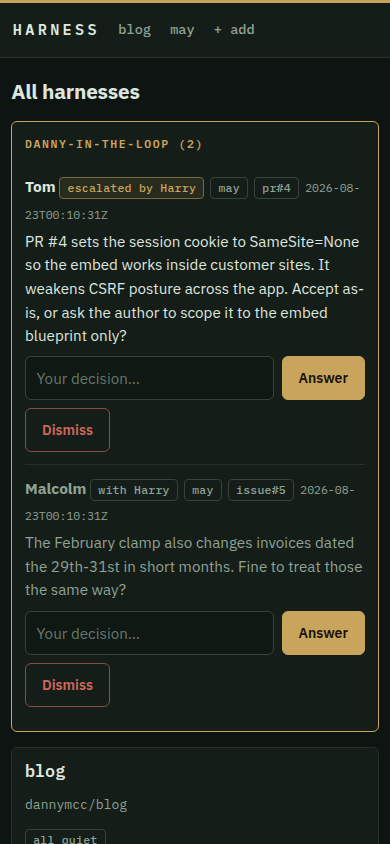
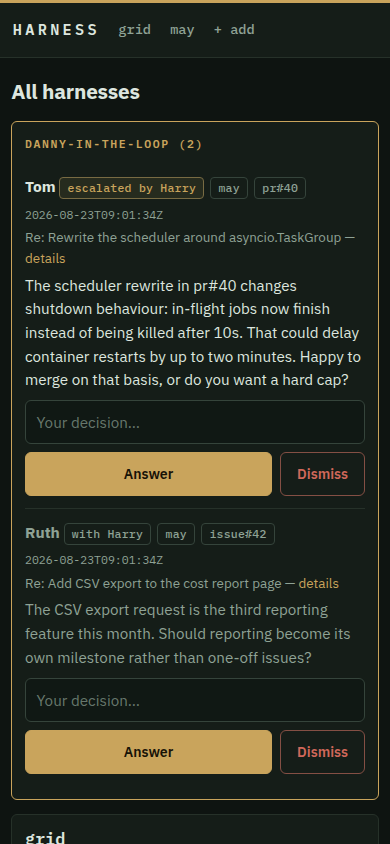
style: mobile QA pass — ledger-style runs, form stacking, scroll affordances, clamps, docket timestamps
Both design skills applied: fixed the float/BFC bug shrinking the roster
strip, edge-bleed scroll affordances for strip and kanban, stacked run
rows, line-clamps over mid-word slices, nowrap mono timestamps, de-emojied
banners, humanised status pills.

Claude-Session: https://claude.ai/code/session_01DxN58DcNjDyC8eDMGfPuZs

diff --git a/harness/web/static/style.css b/harness/web/static/style.css
@@ -16,6 +16,7 @@
   --err: #d0685a;
   --sans: "IBM Plex Sans", system-ui, -apple-system, "Segoe UI", sans-serif;
   --mono: "IBM Plex Mono", ui-monospace, SFMono-Regular, Menlo, Consolas, monospace;
+  --page-pad: .9rem;
 }
 @media (prefers-color-scheme: light) {
   :root {
@@ -59,7 +60,7 @@ nav {
 .who { margin-left: auto; color: var(--dim); font: 400 .78rem var(--mono); }
 
 /* --- type --------------------------------------------------------------- */
-main { max-width: 900px; margin: 0 auto; padding: 1rem .9rem 2rem; }
+main { max-width: 900px; margin: 0 auto; padding: 1rem var(--page-pad) 2rem; }
 h1 {
   font: 700 1.3rem/1.3 var(--sans); letter-spacing: -.01em;
   margin: .6rem 0 1rem;
@@ -75,7 +76,7 @@ h2 a { letter-spacing: .14em; }
 }
 .repo { color: var(--dim); font: 400 .82rem var(--mono); letter-spacing: 0; }
 .dim { opacity: .5; }
-.ts { color: var(--dim); font: 400 .72rem var(--mono); letter-spacing: 0; text-transform: none; }
+.ts { color: var(--dim); font: 400 .72rem var(--mono); letter-spacing: 0; text-transform: none; white-space: nowrap; }
 .hint { color: var(--dim); font-size: .85rem; }
 
 /* --- banners ------------------------------------------------------------ */
@@ -95,8 +96,9 @@ h2 a { letter-spacing: .14em; }
   gap: .9rem; margin-bottom: .9rem;
 }
 .card {
+  --card-pad: 1rem;
   background: var(--card); border: 1px solid var(--border);
-  border-radius: 6px; padding: .95rem 1rem; margin-bottom: .9rem;
+  border-radius: 6px; padding: .95rem var(--card-pad); margin-bottom: .9rem;
   display: block; color: var(--text);
 }
 .cards .card { margin-bottom: 0; }
@@ -106,6 +108,11 @@ a.card:hover { border-color: var(--accent); text-decoration: none; }
 .accent-border > h2:first-child { color: var(--accent); }
 .report-snippet { color: var(--dim); font-size: .85rem; margin: .5rem 0 0; }
 .report-snippet b { color: var(--text); }
+.clamp2, .clamp3 {
+  display: -webkit-box; -webkit-box-orient: vertical; overflow: hidden;
+}
+.clamp2 { -webkit-line-clamp: 2; }
+.clamp3 { -webkit-line-clamp: 3; }
 .cost { color: var(--dim); font: 400 .75rem var(--mono); margin: .5rem 0 0; }
 .stats { margin-top: .35rem; }
 
@@ -170,6 +177,33 @@ pre {
   overflow-x: auto; max-height: 60vh;
 }
 .diff { max-height: 70vh; }
+
+/* --- agent runs: stacked ledger rows ------------------------------------ */
+.runs { list-style: none; padding: 0; margin: 0; }
+.runs li { padding: .6rem 0; border-top: 1px solid var(--border); }
+.runs li:first-child { border-top: 0; }
+.run-head {
+  display: flex; align-items: center; gap: .45rem; flex-wrap: wrap;
+  min-width: 0;
+}
+.run-head > a { flex: 1 1 auto; min-width: 0; }
+.run-mark { font: 600 .85rem var(--mono); }
+.run-mark.ok { color: var(--ok); }
+.run-mark.err { color: var(--err); }
+.run-summary { margin: .25rem 0 0; color: var(--dim); font-size: .85rem; }
+.run-when { margin: .25rem 0 0; color: var(--dim); font: 400 .72rem var(--mono); }
+.runs form { display: inline; }
+.runs button.danger {
+  min-height: 36px; min-width: auto; padding: .25rem .6rem;
+  font: 500 .75rem var(--mono);
+}
+
+/* run page: facts under the title, docket-style */
+.run-facts {
+  display: flex; align-items: center; flex-wrap: wrap; gap: .3rem .8rem;
+  margin: .3rem 0 1rem; color: var(--dim); font: 400 .78rem var(--mono);
+}
+.run-facts span:not(.pill) { white-space: nowrap; }
 
 /* --- events ------------------------------------------------------------- */
 .events { list-style: none; padding: 0; margin: 0; }
@@ -254,7 +288,12 @@ footer {
 .kanban {
   display: grid; grid-auto-flow: column;
   grid-auto-columns: minmax(230px, 1fr);
-  gap: .7rem; overflow-x: auto; padding-bottom: .6rem;
+  gap: .7rem; overflow-x: auto;
+  /* bleed to the card's edge so a cut-off column reads as "scroll me",
+     not as clipped content */
+  margin-inline: calc(var(--card-pad) * -1);
+  padding: 0 var(--card-pad) .6rem;
+  scroll-padding-inline: var(--card-pad);
   scroll-snap-type: x proximity;
   scrollbar-color: var(--border-strong) transparent;
 }
@@ -262,11 +301,12 @@ footer {
 .kanban-col h3 {
   font: 600 .68rem var(--mono); text-transform: uppercase;
   letter-spacing: .12em; color: var(--dim); margin: 0 0 .5rem;
-  display: flex; align-items: center; gap: .35rem;
+  display: flex; align-items: center; gap: .45rem;
   border-bottom: 1px solid var(--border); padding-bottom: .4rem;
+  white-space: nowrap;
 }
-.kanban-col h3 .pill { text-transform: none; letter-spacing: .02em; font-size: .68rem; padding: .05rem .35rem; }
-.kanban-col .count { margin-left: auto; color: var(--text); }
+.kanban-col h3 .pill { text-transform: none; letter-spacing: .02em; font-size: .68rem; padding: .05rem .35rem; margin: 0; }
+.kanban-col .count { color: var(--text); }
 .kcard {
   display: flex; flex-direction: column; gap: .15rem;
   background: var(--inset); border: 1px solid var(--border);
@@ -287,23 +327,30 @@ footer {
 .question > p:first-child { margin: 0 0 .1rem; }
 .q-text { margin: .3rem 0 .55rem; font-size: .95rem; }
 .answer-form { display: flex; gap: .5rem; flex-wrap: wrap; }
-.answer-form input { flex: 1 1 220px; }
+.answer-form input { flex: 1 1 220px; min-width: 0; }
 
 /* --- small screens ------------------------------------------------------ */
 @media (max-width: 600px) {
-  main { padding: .7rem .7rem 1.5rem; }
+  :root { --page-pad: .7rem; }
+  main { padding: .7rem var(--page-pad) 1.5rem; }
   .cards { grid-template-columns: 1fr; }
   nav { gap: .1rem .4rem; padding: .45rem .6rem; }
   .who { display: none; }
   .kanban { grid-auto-columns: minmax(220px, 78vw); }
-  .card { padding: .85rem .8rem; }
+  .card { --card-pad: .8rem; padding: .85rem var(--card-pad); }
+  /* the input takes the whole first line; the buttons share the second */
+  .answer-form input { flex-basis: 100%; }
+  .answer-form button.primary { flex: 1 1 auto; }
 }
 
 
 /* --- settings link + tell form ------------------------------------------ */
+.page-head {
+  display: flex; align-items: center; flex-wrap: wrap; gap: .25rem .6rem;
+}
 .settings-link {
-  float: right; display: inline-flex; align-items: center;
-  min-height: 44px; padding: 0 .75rem; margin-left: .5rem;
+  display: inline-flex; align-items: center;
+  min-height: 44px; padding: 0 .75rem; margin-left: auto;
   font: 500 .72rem var(--mono); letter-spacing: .1em; text-transform: uppercase;
   color: var(--dim); border: 1px solid var(--border-strong); border-radius: 4px;
 }
@@ -318,9 +365,12 @@ footer {
 .q-context { font-size: .84rem; color: var(--dim); margin: .15rem 0 0; }
 
 /* --- compact agent strip under the page title --- */
+/* bleeds to the viewport edge so a half-visible chip signals more to scroll */
 .roster-strip {
   flex-wrap: nowrap; overflow-x: auto; -webkit-overflow-scrolling: touch;
-  margin: 0 0 1rem; padding-bottom: .25rem; scrollbar-width: none;
+  margin: 0 calc(var(--page-pad) * -1) 1rem;
+  padding: 0 var(--page-pad) .25rem; scrollbar-width: none;
+  scroll-padding-inline: var(--page-pad);
 }
 .roster-strip::-webkit-scrollbar { display: none; }
 .roster-strip .agent-chip { flex: 0 0 auto; white-space: nowrap; }

diff --git a/harness/web/templates/project.html b/harness/web/templates/project.html
@@ -2,7 +2,7 @@
 {% block title %}Harness · {{ p.name }}{% endblock %}
 {% block content %}
 
-<h1>{{ p.name }} <span class="repo">{{ p.repo }}</span>
+<h1 class="page-head">{{ p.name }} <span class="repo">{{ p.repo }}</span>
   {% if not p.enabled %}<span class="pill">disabled</span>{% endif %}
   <a class="settings-link" href="/p/{{ p.name }}/settings">Settings</a></h1>
 
@@ -59,7 +59,7 @@
     <a href="/p/{{ p.name }}/{{ i.kind }}/{{ i.number }}">
       <b>{{ i.kind }}#{{ i.number }}</b> {{ i.title }}</a>
     <span class="pill {{ 'ok' if i.verdict == 'merge' else '' }}">{{ i.verdict or '—' }}</span>
-    <p class="snippet">{{ i.verdict_summary[:200] }}</p>
+    <p class="snippet clamp3">{{ i.verdict_summary[:200] }}</p>
     <div class="actions">
       <form method="post" action="/p/{{ p.name }}/{{ i.kind }}/{{ i.number }}/approve">
         <button class="primary">{{ 'Merge' if i.kind == 'pr' else 'Fix it' }}</button></form>
@@ -107,13 +107,13 @@
     {% for col in board %}
     <div class="kanban-col">
       <h3>{{ col.title }}
-        {% if col.agent %}<span class="pill">{{ col.agent }}</span>{% endif %}
-        <span class="count">{{ col.cards|length }}</span></h3>
+        <span class="count">{{ col.cards|length }}</span>
+        {% if col.agent %}<span class="pill">{{ col.agent }}</span>{% endif %}</h3>
       {% for i in col.cards %}
       <a class="kcard {{ 'err-border' if i.status == 'blocked' }}"
          href="/p/{{ p.name }}/{{ i.kind }}/{{ i.number }}">
         <span class="kcard-id">{{ i.kind }}#{{ i.number }}</span>
-        <span class="kcard-title">{{ i.title[:70] }}</span>
+        <span class="kcard-title clamp3">{{ i.title[:100] }}</span>
         <span class="kcard-meta">
           {% if i.verdict %}<span class="pill">{{ i.verdict }}</span>{% endif %}
           <span class="ts">{{ i.author }}</span>
@@ -147,25 +147,28 @@
 
 <section class="card">
   <h2>Agent runs · {{ cost|money }}</h2>
-  <ul class="events">
+  <ul class="runs">
   {% for r in runs %}
-    <li class="{{ 'info' if r.ok else 'error' }}">
-      <span class="ts">{{ r.started_at }}</span>
-      <span class="pill">{{ r.agent or agent_name(r.role, r.task, p.lead_name) }}</span>
-      <a href="/run/{{ r.id }}">{{ r.task }} {{ r.item_key }}</a>
-      {% if r.finished_at is none %}<span class="pill warn">live</span>
-        <form method="post" action="/run/{{ r.id }}/stop" style="display:inline">
-          <button class="danger">Stop</button></form>
-      {% elif r.ok is not none %}{{ '✓' if r.ok else '✗' }}{% endif %}
-      {{ r.cost_usd|money }} {{ r.summary[:120] }}</li>
+    <li>
+      <span class="run-head">
+        <span class="pill">{{ r.agent or agent_name(r.role, r.task, p.lead_name) }}</span>
+        <a href="/run/{{ r.id }}">{{ r.task }} {{ r.item_key }}</a>
+        {% if r.finished_at is none %}<span class="pill warn">live</span>
+          <form method="post" action="/run/{{ r.id }}/stop">
+            <button class="danger">Stop</button></form>
+        {% elif r.ok is not none %}<span class="run-mark {{ 'ok' if r.ok else 'err' }}">{{ '✓' if r.ok else '✗' }}</span>{% endif %}
+      </span>
+      {% if r.summary %}<p class="run-summary clamp2">{{ r.summary[:200] }}</p>{% endif %}
+      <p class="run-when"><span class="ts">{{ r.started_at }}</span> · {{ r.cost_usd|money }}</p></li>
   {% endfor %}
   </ul>
 </section>
 
 <section class="card">
   <h2>Past releases</h2>
-  <ul>{% for r in releases if r.status != 'proposed' %}
-    <li>v{{ r.version }} — {{ r.status }} {{ r.released_at or r.created_at }}</li>
+  <ul class="events">{% for r in releases if r.status != 'proposed' %}
+    <li><b>v{{ r.version }}</b> {{ r.status }}
+      <span class="ts">{{ r.released_at or r.created_at }}</span></li>
   {% else %}<li>None yet.</li>{% endfor %}</ul>
 </section>
 

diff --git a/harness/web/templates/base.html b/harness/web/templates/base.html
@@ -28,18 +28,18 @@
 </nav>
 
 {% if worker.stale %}
-<div class="banner warn">⚠ The worker's heartbeat is stale — it may be hung. Check `docker logs harness`.</div>
+<div class="banner warn">The worker's heartbeat is stale — it may be hung. Check `docker logs harness`.</div>
 {% endif %}
 {% if not worker.alive %}
-<div class="banner warn">⚠ The worker thread is not running. Restart the container.</div>
+<div class="banner warn">The worker thread is not running. Restart the container.</div>
 {% endif %}
 {% if maintenance %}
-<div class="banner warn">🔧 Maintenance in progress — {{ maintenance }}. The section is
+<div class="banner warn">Maintenance in progress — {{ maintenance }}. The section is
 holding; no action needed from you.</div>
 {% endif %}
 {% if paused %}
 <div class="banner warn">
-  ⏸ Agent work paused until {{ paused }} — {{ paused_reason }}
+  Agent work paused until {{ paused }} — {{ paused_reason }}
   <form method="post" action="/resume"><button>Resume now</button></form>
 </div>
 {% endif %}

diff --git a/harness/web/templates/run.html b/harness/web/templates/run.html
@@ -4,15 +4,17 @@
 
 <p><a href="{{ '/p/' + run.project if run.project else '/' }}">← back</a></p>
 <h1>Run {{ run.id }}: {{ display_name }} · {{ run.task }} {{ run.item_key }}</h1>
-<p>
+<p class="run-facts">
   {% if run.finished_at is none %}
     <span class="pill warn">live</span>
     {% if run.cancel_requested %}<span class="pill">stopping…</span>{% endif %}
   {% elif run.ok %}<span class="pill ok">succeeded</span>
   {% else %}<span class="pill">failed</span>{% endif %}
-  started {{ run.started_at }}
-  {% if run.finished_at %}· finished {{ run.finished_at }}{% endif %}
-  · {{ run.cost_usd|money }} · {{ run.turns }} messages · {{ run.model }}
+  <span>started {{ run.started_at }}</span>
+  {% if run.finished_at %}<span>finished {{ run.finished_at }}</span>{% endif %}
+  <span>{{ run.cost_usd|money }}</span>
+  <span>{{ run.turns }} messages</span>
+  <span>{{ run.model }}</span>
 </p>
 {% if run.summary %}<section class="card"><h2>Summary</h2>
   <div class="md">{{ run.summary }}</div></section>{% endif %}

diff --git a/harness/web/templates/overview.html b/harness/web/templates/overview.html
@@ -40,7 +40,7 @@
       {% if c.release %}<span class="pill accent">release v{{ c.release.version }} proposed</span>{% endif %}
       {% if not c.waiting and not c.queued and not c.release %}<span class="pill">all quiet</span>{% endif %}
     </div>
-    {% if c.lead_report %}<p class="report-snippet"><b>{{ c.project.lead_name }}:</b> {{ c.lead_report.content[:180] }}</p>{% endif %}
+    {% if c.lead_report %}<p class="report-snippet clamp3"><b>{{ c.project.lead_name }}:</b> {{ c.lead_report.content[:300] }}</p>{% endif %}
     <p class="cost">{{ c.cost|money }} spent</p>
   </a>
 {% endfor %}

diff --git a/harness/web/templates/item.html b/harness/web/templates/item.html
@@ -5,7 +5,7 @@
 <p><a href="/p/{{ p.name }}">← {{ p.name }}</a></p>
 <h1>{{ item.kind }}#{{ item.number }}: {{ item.title }}</h1>
 <p>
-  <span class="pill">{{ item.status }}</span>
+  <span class="pill">{{ item.status.replace('_', ' ') }}</span>
   {% if item.verdict %}<span class="pill">{{ item.verdict }}</span>{% endif %}
   by {{ item.author }} · <a href="{{ gh_url }}" target="_blank">view on GitHub ↗</a>
 </p>
